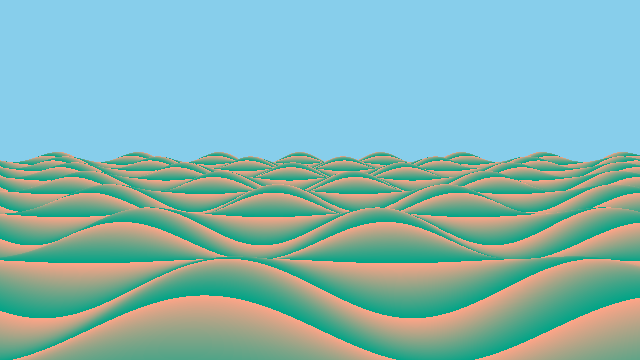
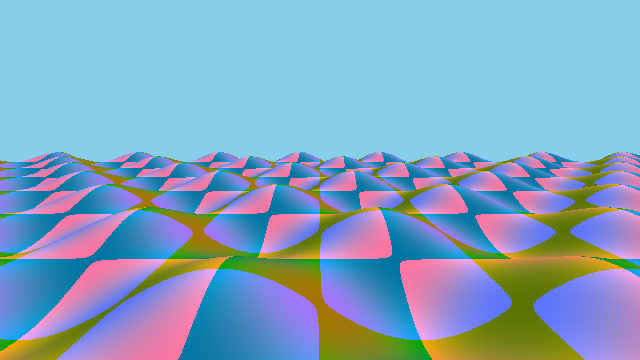
feat: add SDF surface normal approximation

diff --git a/scene/scene.go b/scene/scene.go
@@ -2,6 +2,8 @@ package scene
 
 import . "github.com/tntmeijs/gengo/mathematics"
 
+const epsilon = 0.001
+
 type sdf func(point Vec3) float64
 
 // Information about the surface a ray hit
@@ -27,5 +29,16 @@ func (s *Scene) DoesPointIntersectSurface(point Vec3) bool {
 
 // Calculate the information at the position a point intersects the scene's surface
 func (s *Scene) GetIntersectionPointSurfaceHitInfo(point Vec3, rayLength float64) SurfaceHitInfo {
-	return SurfaceHitInfo{point, Vec3{}, rayLength}
+	return SurfaceHitInfo{point, s.approximateNormal(point), rayLength}
+}
+
+// Approximate the surface normal by samping points around the intersection point
+//
+// Reference: http://jamie-wong.com/2016/07/15/ray-marching-signed-distance-functions/
+func (s *Scene) approximateNormal(point Vec3) Vec3 {
+	normalX := s.sceneSDF(Vec3{X: point.X + epsilon, Y: point.Y, Z: point.Z}) - s.sceneSDF(Vec3{X: point.X - epsilon, Y: point.Y, Z: point.Z})
+	normalY := s.sceneSDF(Vec3{X: point.X, Y: point.Y + epsilon, Z: point.Z}) - s.sceneSDF(Vec3{X: point.X, Y: point.Y - epsilon, Z: point.Z})
+	normalZ := s.sceneSDF(Vec3{X: point.X, Y: point.Y, Z: point.Z + epsilon}) - s.sceneSDF(Vec3{X: point.X, Y: point.Y, Z: point.Z - epsilon})
+
+	return Normalize(Vec3{X: normalX, Y: normalY, Z: normalZ})
 }

diff --git a/main.go b/main.go
@@ -36,7 +36,7 @@ func main() {
 			didHit, hitInfo := camera.MarchAlongRay(ray, scene, StepSize)
 
 			if didHit {
-				pixelColor = Color{Red: uint8(hitInfo.RayLength * 235.0), Green: 164, Blue: 135, Alpha: 255}
+				pixelColor = Color{Red: uint8(hitInfo.Normal.X * 235.0), Green: uint8(hitInfo.Normal.Y * 164.0), Blue: uint8(hitInfo.Normal.Z * 135.0), Alpha: 255}
 			}
 
 			image.SetPixelColor(x, y, pixelColor)
